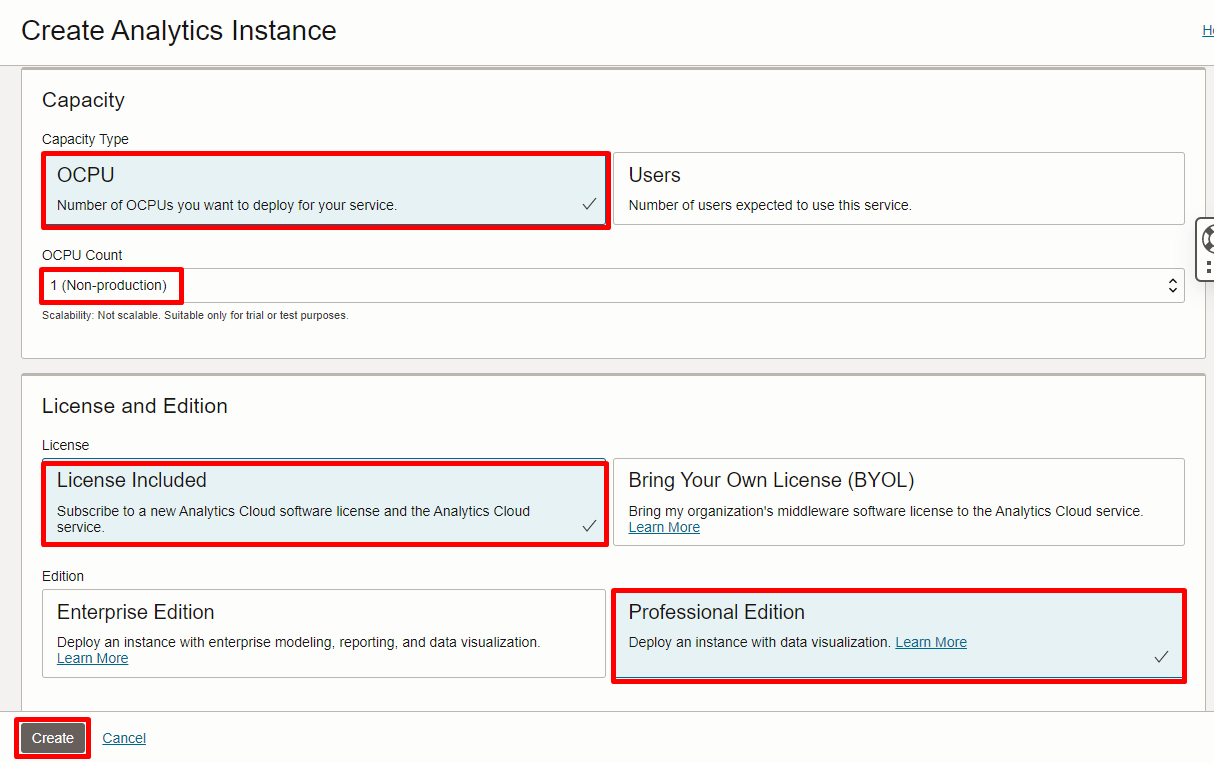
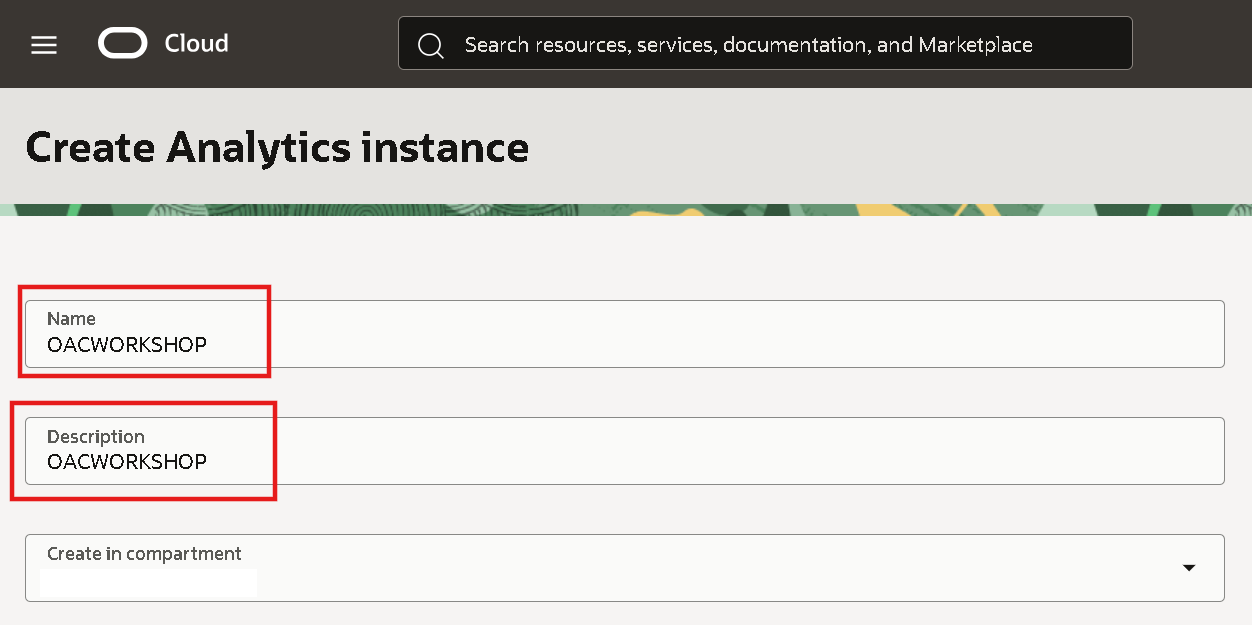
oac update

diff --git a/2-criacao-recursos/criacao-recursos.md b/2-criacao-recursos/criacao-recursos.md
@@ -48,7 +48,7 @@ Quando a nova página carregar, basta clicar em **Continuar**.
 
 Para iniciar o processo de criação do Banco de Dados Autonomous:
 
-1. Clique no menu no lado esquerdo da tela principal, selecione **Oracle AI Database**, depois **Autonomous AI Database**
+1. Clique no menu (☰) e selecione **Oracle AI Database ⮕ Autonomous AI Database**
 
 ![Menu banco de dados Autonomous](./images/autonomous-database-menu-1.png)
 
@@ -90,30 +90,37 @@ Para iniciar o processo de criação do Banco de Dados Autonomous:
 
 Neste tutorial, criaremos uma instância da ferramenta Oracle Analytics Cloud.
 
-1. Criar a OAC
+1. Clique no menu (☰) e selecione **Analytics & AI ⮕ Analytics Cloud**
 
-![ver banco de dados disponível](./images/analytics_menu.png)
+![Menu OAC](./images/analytics_menu.png)
 
-- Clique no menu hamburguer no canto superior esquerdo;
-- Clique em **Análise e IA**;
-- Clique em **Analytics Cloud**.
+Clique em **Create instance**:
 
-![ver banco de dados disponível](./images/analytics_create_instance.png)
-
-- Verifique se está no compartimento correto;
-- Clique em **Criar instância**.
-
-![ver banco de dados disponível](./images/analytics_creation.png)
+![Create OAC](./images/analytics_create_instance.png)
 
 2. Complete as informações:
 
-* Nome: nome dado à instância;
+* Nome: nome dado à instância. Sugestão: **OACWORKSHOP**
 * Descrição: descrição dada à instância – opcional;
-* Criar no Compartimento: Compartimento onde a instância será criada;
-* Conjunto de recursos: escolha **Edição Profissional**;
-* Capacidade: escolha **OCPU** e digite **1**;
-* Tipo de licença: Escolha **Licença incluída**;
-- Clique em **Criar**.
+* Selecione o Compartment com nome de <NomeTenancy>(root)
+
+![OAC](./images/analytics_creation.png)
+
+* Capacity type: escolha **OCPU** e digite **1**;
+
+![Capacity](./images/analytics_creation-1.png)
+
+* License: escolha **Licença incluída**;
+* Edition: escolha **Edição Profissional**;
+
+![Licença e Edição](./images/analytics_creation-2.png)
+
+* Software updates: **Regular**
+
+![Software updates](./images/analytics_creation-3.png)
+
+* Agora finalize a criação clicando no botão **Create**
+
 
 3. Acesse o Oracle Analytics Cloud
 
